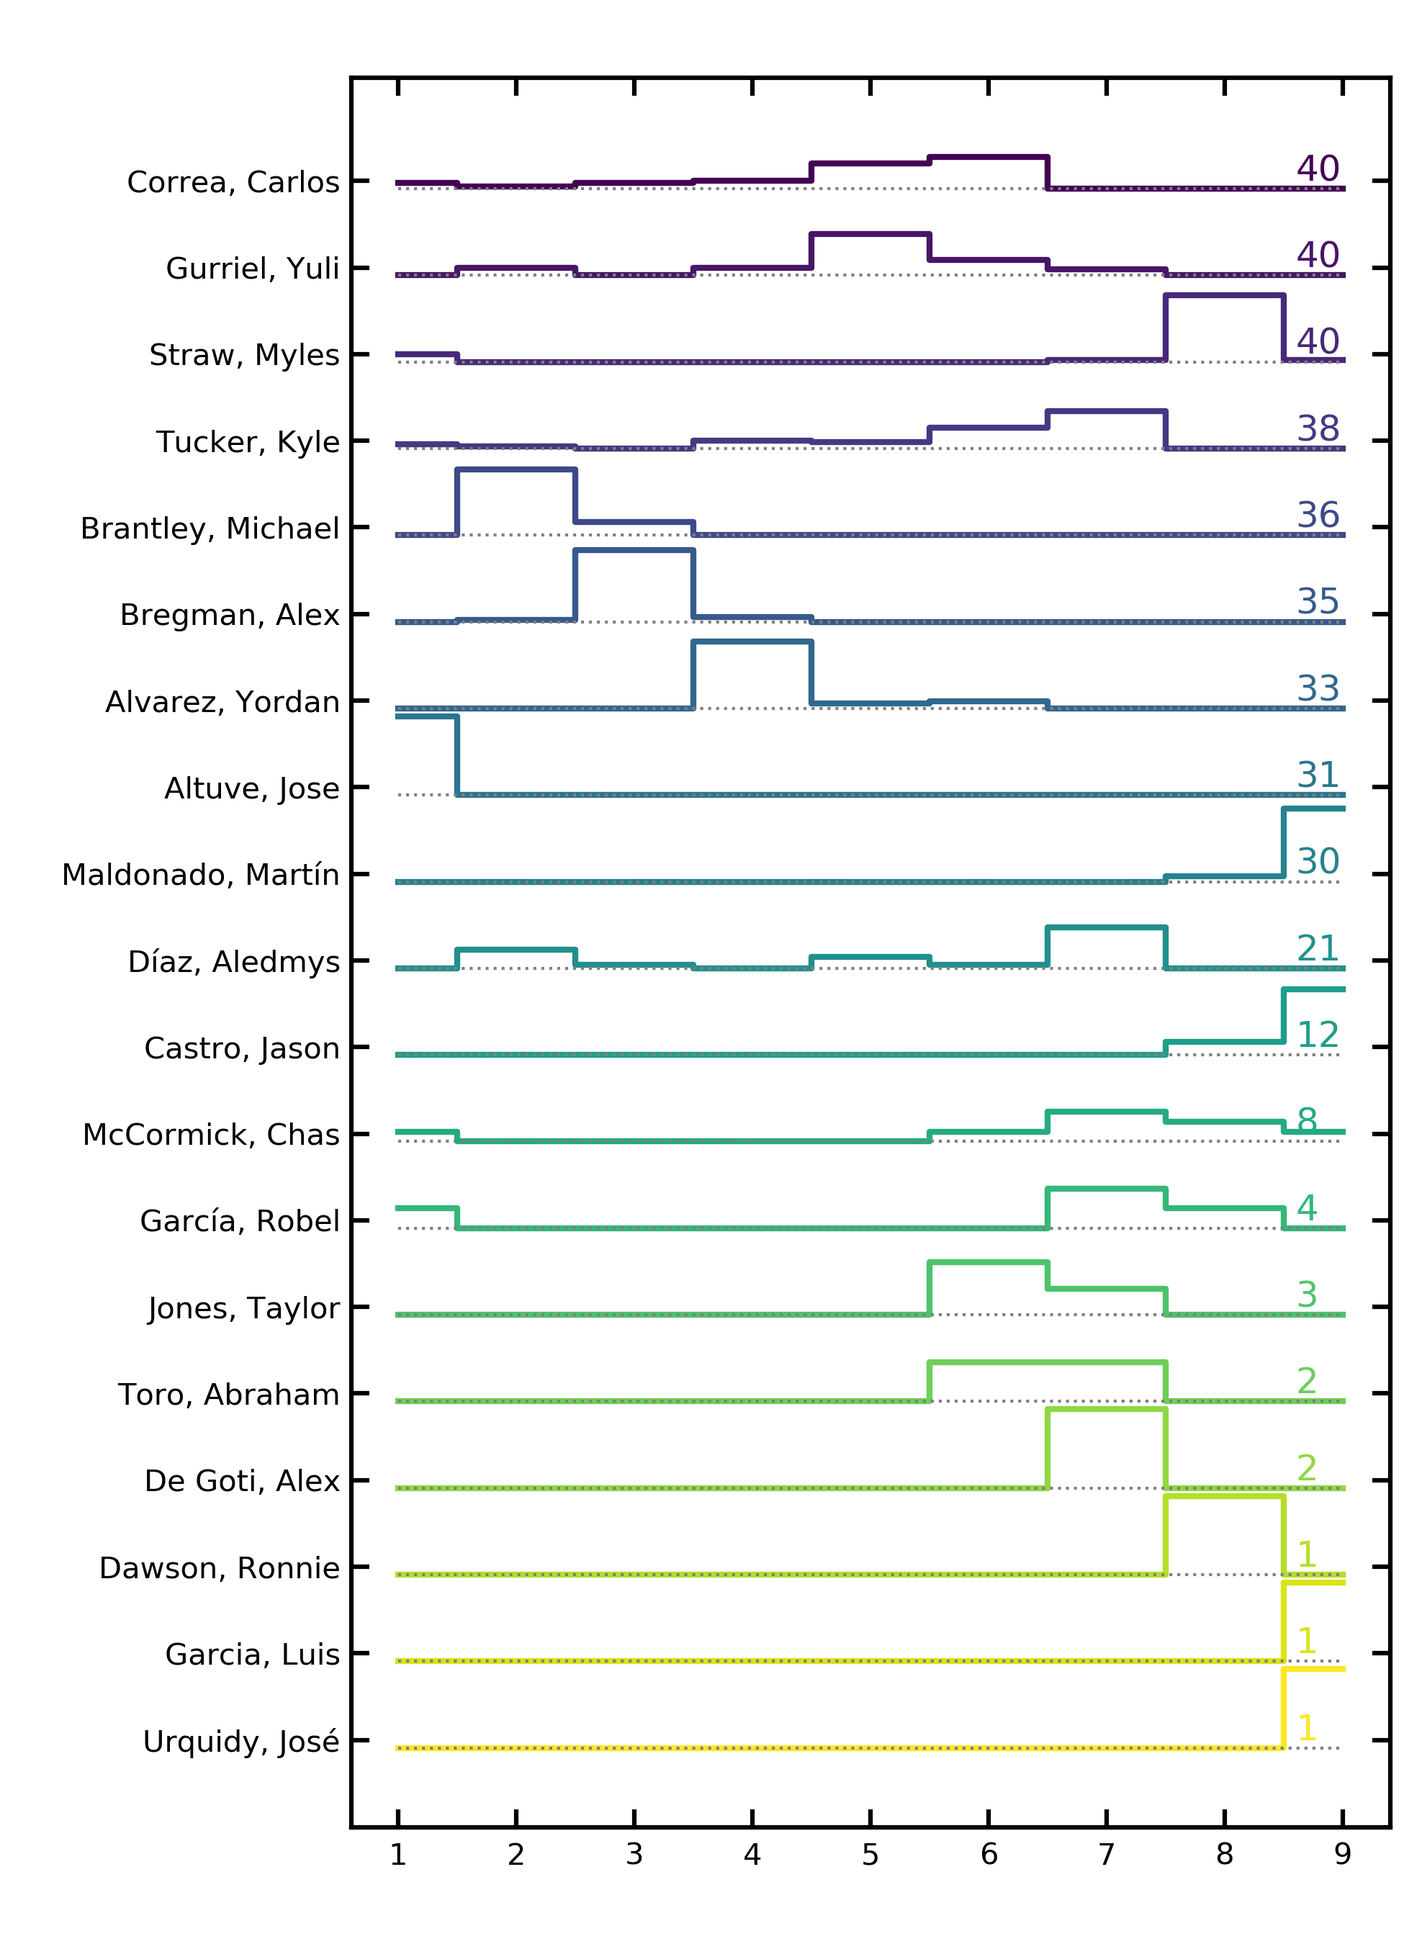
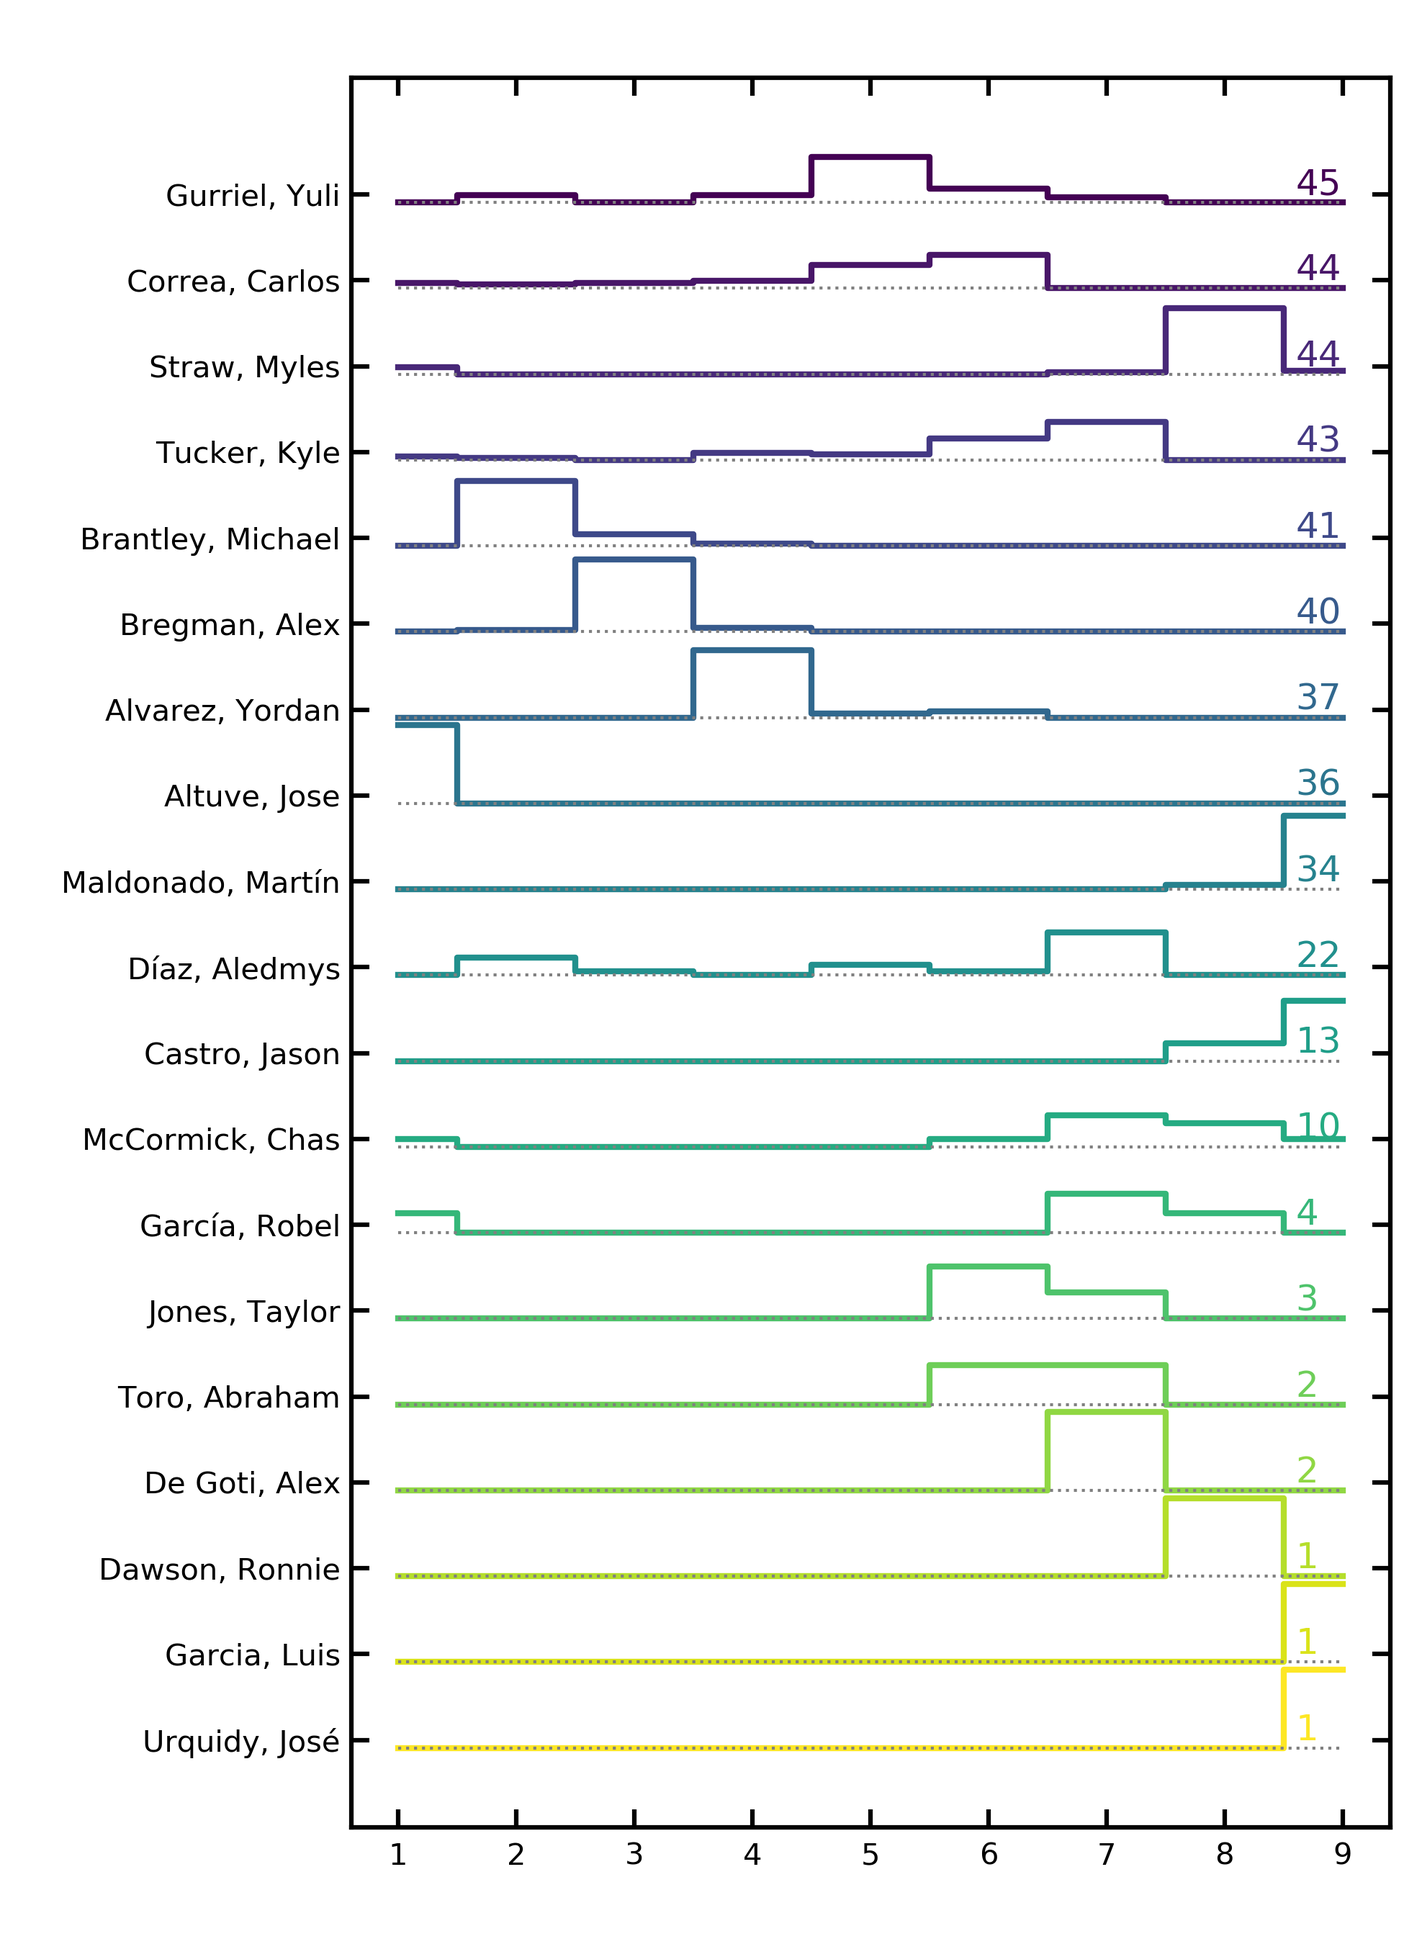
lineup update

diff --git a/Lineups/lineup2021.html b/Lineups/lineup2021.html
@@ -12,36 +12,36 @@
   <p>For each team, what is the "typical" 2021 lineup?</p>
 <table id="customers">
 <tr><th>Team</th><th>1st</th><th>2nd</th><th>3rd</th><th>4th</th><th>5th</th><th>6th</th><th>7th</th><th>8th</th><th>9th</th><th>Similarity</th><th>First Appeared</th></tr>
-<tr><td><a href="figures/2021LAAorder.png">LAA</a></td><td>Fletcher, David</td><td>Ohtani, Shohei</td><td>Trout, Mike</td><td>Rendon, Anthony</td><td>Walsh, Jared</td><td>Upton, Justin</td><td>Iglesias, José</td><td>Suzuki, Kurt</td><td>Fowler, Dexter</td><td>3.49</td><td>3</td></tr>
-<tr><td><a href="figures/2021HOUorder.png">HOU</a></td><td>Altuve, Jose</td><td>Brantley, Michael</td><td>Bregman, Alex</td><td>Alvarez, Yordan</td><td>Gurriel, Yuli</td><td>Correa, Carlos</td><td>Tucker, Kyle</td><td>Straw, Myles</td><td>Maldonado, Martín</td><td>4.48</td><td>8</td></tr>
-<tr><td><a href="figures/2021OAKorder.png">OAK</a></td><td>Canha, Mark</td><td>Laureano, Ramón</td><td>Olson, Matt</td><td>Murphy, Sean</td><td>Chapman, Matt</td><td>Lowrie, Jed</td><td>Piscotty, Stephen</td><td>Andrus, Elvis</td><td>Kemp, Tony</td><td>2.95</td><td>34</td></tr>
-<tr><td><a href="figures/2021TORorder.png">TOR</a></td><td>Semien, Marcus</td><td>Bichette, Bo</td><td>Guerrero Jr., Vladimir</td><td>Hernández, Teoscar</td><td>Grichuk, Randal</td><td>Biggio, Cavan</td><td>Gurriel Jr., Lourdes</td><td>Tellez, Rowdy</td><td>Jansen, Danny</td><td>3.34</td><td>33</td></tr>
-<tr><td><a href="figures/2021ATLorder.png">ATL</a></td><td>Acuña Jr., Ronald</td><td>Freeman, Freddie</td><td>Ozuna, Marcell</td><td>Albies, Ozzie</td><td>Riley, Austin</td><td>Swanson, Dansby</td><td>Contreras, William</td><td>Pache, Cristian</td><td>Ynoa, Huascar</td><td>3.63</td><td>29</td></tr>
-<tr><td><a href="figures/2021MILorder.png">MIL</a></td><td>Wong, Kolten</td><td>Vogelbach, Daniel</td><td>García, Avisaíl</td><td>Shaw, Travis</td><td>Bradley Jr., Jackie</td><td>Urías, Luis</td><td>McKinney, Billy</td><td>Maile, Luke</td><td>Woodruff, Brandon</td><td>2.02</td><td>27</td></tr>
-<tr><td><a href="figures/2021STLorder.png">STL</a></td><td>Edman, Tommy</td><td>Carlson, Dylan</td><td>Goldschmidt, Paul</td><td>Arenado, Nolan</td><td>DeJong, Paul</td><td>O'Neill, Tyler</td><td>Bader, Harrison</td><td>Knizner, Andrew</td><td>Wainwright, Adam</td><td>3.2</td><td>29</td></tr>
-<tr><td><a href="figures/2021CHCorder.png">CHC</a></td><td>Happ, Ian</td><td>Contreras, Willson</td><td>Rizzo, Anthony</td><td>Bryant, Kris</td><td>Pederson, Joc</td><td>Báez, Javier</td><td>Heyward, Jason</td><td>Bote, David</td><td>Davies, Zach</td><td>2.11</td><td>8</td></tr>
-<tr><td><a href="figures/2021ARIorder.png">ARI</a></td><td>Smith, Pavin</td><td>Calhoun, Kole</td><td>Cabrera, Asdrúbal</td><td>Peralta, David</td><td>Kelly, Carson</td><td>Escobar, Eduardo</td><td>Ahmed, Nick</td><td>Heath, Nick</td><td>Kelly, Merrill</td><td>2.36</td><td>22</td></tr>
-<tr><td><a href="figures/2021LADorder.png">LAD</a></td><td>Betts, Mookie</td><td>Seager, Corey</td><td>Turner, Justin</td><td>Muncy, Max</td><td>Smith, Will</td><td>Taylor, Chris</td><td>Beaty, Matt</td><td>Lux, Gavin</td><td>Buehler, Walker</td><td>3.42</td><td>32</td></tr>
-<tr><td><a href="figures/2021SForder.png">SF</a></td><td>La Stella, Tommy</td><td>Yastrzemski, Mike</td><td>Dickerson, Alex</td><td>Belt, Brandon</td><td>Longoria, Evan</td><td>Crawford, Brandon</td><td>Posey, Buster</td><td>Dubón, Mauricio</td><td>Webb, Logan</td><td>1.68</td><td>8</td></tr>
-<tr><td><a href="figures/2021CLEorder.png">CLE</a></td><td>Luplow, Jordan</td><td>Hernandez, Cesar</td><td>Ramírez, José</td><td>Rosario, Eddie</td><td>Reyes, Franmil</td><td>Naylor, Josh</td><td>Bauers, Jake</td><td>Pérez, Roberto</td><td>Giménez, Andrés</td><td>3.61</td><td>17</td></tr>
-<tr><td><a href="figures/2021SEAorder.png">SEA</a></td><td>Haniger, Mitch</td><td>France, Ty</td><td>Seager, Kyle</td><td>Lewis, Kyle</td><td>Marmolejos, José</td><td>Moore, Dylan</td><td>Trammell, Taylor</td><td>Murphy, Tom</td><td>Crawford, J.P.</td><td>3.28</td><td>27</td></tr>
-<tr><td><a href="figures/2021MIAorder.png">MIA</a></td><td>Dickerson, Corey</td><td>Marte, Starling</td><td>Aguilar, Jesús</td><td>Cooper, Garrett</td><td>Anderson, Brian</td><td>Chisholm Jr., Jazz</td><td>Berti, Jon</td><td>Wallach, Chad</td><td>López, Pablo</td><td>2.22</td><td>6</td></tr>
-<tr><td><a href="figures/2021NYMorder.png">NYM</a></td><td>McNeil, Jeff</td><td>Lindor, Francisco</td><td>Conforto, Michael</td><td>Alonso, Pete</td><td>Smith, Dominic</td><td>Pillar, Kevin</td><td>Villar, Jonathan</td><td>McCann, James</td><td>Walker, Taijuan</td><td>2.96</td><td>28</td></tr>
-<tr><td><a href="figures/2021WSHorder.png">WSH</a></td><td>Turner, Trea</td><td>Harrison, Josh</td><td>Soto, Juan</td><td>Bell, Josh</td><td>Castro, Starlin</td><td>Schwarber, Kyle</td><td>Gomes, Yan</td><td>Hernandez, Yadiel</td><td>Robles, Victor</td><td>1.95</td><td>29</td></tr>
-<tr><td><a href="figures/2021BALorder.png">BAL</a></td><td>Mullins, Cedric</td><td>Hays, Austin</td><td>Mancini, Trey</td><td>Franco, Maikel</td><td>Severino, Pedro</td><td>Mountcastle, Ryan</td><td>Galvis, Freddy</td><td>Stewart, DJ</td><td>Urías, Ramón</td><td>2.46</td><td>27</td></tr>
-<tr><td><a href="figures/2021SDorder.png">SD</a></td><td>Grisham, Trent</td><td>Profar, Jurickson</td><td>Machado, Manny</td><td>Hosmer, Eric</td><td>Myers, Wil</td><td>Cronenworth, Jake</td><td>Pham, Tommy</td><td>Caratini, Victor</td><td>Kim, Ha-Seong</td><td>2.5</td><td>10</td></tr>
-<tr><td><a href="figures/2021PHIorder.png">PHI</a></td><td>McCutchen, Andrew</td><td>Hoskins, Rhys</td><td>Harper, Bryce</td><td>Realmuto, J.T.</td><td>Bohm, Alec</td><td>Gregorius, Didi</td><td>Segura, Jean</td><td>Quinn, Roman</td><td>Wheeler, Zack</td><td>3.07</td><td>2</td></tr>
-<tr><td><a href="figures/2021PITorder.png">PIT</a></td><td>Frazier, Adam</td><td>Evans, Phillip</td><td>Reynolds, Bryan</td><td>Moran, Colin</td><td>González, Erik</td><td>Polanco, Gregory</td><td>Stallings, Jacob</td><td>Fowler, Dustin</td><td>Brubaker, JT</td><td>3.1</td><td>4</td></tr>
-<tr><td><a href="figures/2021TEXorder.png">TEX</a></td><td>Kiner-Falefa, Isiah</td><td>Solak, Nick</td><td>Gallo, Joey</td><td>García, Adolis</td><td>Lowe, Nate</td><td>Trevino, Jose</td><td>Calhoun, Willie</td><td>Culberson, Charlie</td><td>White, Eli</td><td>2.27</td><td>21</td></tr>
-<tr><td><a href="figures/2021TBorder.png">TB</a></td><td>Arozarena, Randy</td><td>Meadows, Austin</td><td>Margot, Manuel</td><td>Lowe, Brandon</td><td>Díaz, Yandy</td><td>Wendle, Joey</td><td>Zunino, Mike</td><td>Adames, Willy</td><td>Phillips, Brett</td><td>1.66</td><td>39</td></tr>
-<tr><td><a href="figures/2021BOSorder.png">BOS</a></td><td>Hernández, Enrique</td><td>Verdugo, Alex</td><td>Martinez, J.D.</td><td>Bogaerts, Xander</td><td>Devers, Rafael</td><td>Vázquez, Christian</td><td>Gonzalez, Marwin</td><td>Renfroe, Hunter</td><td>Dalbec, Bobby</td><td>4.6</td><td>26</td></tr>
-<tr><td><a href="figures/2021CINorder.png">CIN</a></td><td>Winker, Jesse</td><td>Castellanos, Nick</td><td>Votto, Joey</td><td>Suárez, Eugenio</td><td>Moustakas, Mike</td><td>Senzel, Nick</td><td>India, Jonathan</td><td>Barnhart, Tucker</td><td>Castillo, Luis</td><td>2.71</td><td>1</td></tr>
-<tr><td><a href="figures/2021COLorder.png">COL</a></td><td>Tapia, Raimel</td><td>McMahon, Ryan</td><td>Story, Trevor</td><td>Blackmon, Charlie</td><td>Cron, C.J.</td><td>Daza, Yonathan</td><td>Fuentes, Josh</td><td>Nuñez, Dom</td><td>Gray, Jon</td><td>2.56</td><td>17</td></tr>
-<tr><td><a href="figures/2021KCorder.png">KC</a></td><td>Merrifield, Whit</td><td>Benintendi, Andrew</td><td>Santana, Carlos</td><td>Perez, Salvador</td><td>Soler, Jorge</td><td>Dozier, Hunter</td><td>Isbel, Kyle</td><td>Taylor, Michael A.</td><td>Lopez, Nicky</td><td>4.15</td><td>1</td></tr>
-<tr><td><a href="figures/2021DETorder.png">DET</a></td><td>Grossman, Robbie</td><td>Castro, Willi</td><td>Candelario, Jeimer</td><td>Ramos, Wilson</td><td>Schoop, Jonathan</td><td>Goodrum, Niko</td><td>Baddoo, Akil</td><td>Reyes, Victor</td><td>Jones, JaCoby</td><td>2.23</td><td>19</td></tr>
-<tr><td><a href="figures/2021MINorder.png">MIN</a></td><td>Arraez, Luis</td><td>Donaldson, Josh</td><td>Cruz, Nelson</td><td>Kepler, Max</td><td>Polanco, Jorge</td><td>Larnach, Trevor</td><td>Astudillo, Willians</td><td>Simmons, Andrelton</td><td>Rortvedt, Ben</td><td>2.12</td><td>34</td></tr>
-<tr><td><a href="figures/2021CWSorder.png">CWS</a></td><td>Anderson, Tim</td><td>Eaton, Adam</td><td>Moncada, Yoán</td><td>Abreu, José</td><td>Mercedes, Yermín</td><td>Grandal, Yasmani</td><td>Vaughn, Andrew</td><td>García, Leury</td><td>Madrigal, Nick</td><td>3.1</td><td>34</td></tr>
-<tr><td><a href="figures/2021NYYorder.png">NYY</a></td><td>LeMahieu, DJ</td><td>Stanton, Giancarlo</td><td>Judge, Aaron</td><td>Urshela, Gio</td><td>Torres, Gleyber</td><td>Hicks, Aaron</td><td>Frazier, Clint</td><td>Higashioka, Kyle</td><td>Odor, Rougned</td><td>2.65</td><td>23</td></tr>
+<tr><td><a href="figures/2021LAAorder.png">LAA</a></td><td>Fletcher, David</td><td>Ohtani, Shohei</td><td>Trout, Mike</td><td>Rendon, Anthony</td><td>Walsh, Jared</td><td>Upton, Justin</td><td>Iglesias, José</td><td>Suzuki, Kurt</td><td>Fowler, Dexter</td><td>3.21</td><td>3</td></tr>
+<tr><td><a href="figures/2021HOUorder.png">HOU</a></td><td>Altuve, Jose</td><td>Brantley, Michael</td><td>Bregman, Alex</td><td>Alvarez, Yordan</td><td>Gurriel, Yuli</td><td>Correa, Carlos</td><td>Tucker, Kyle</td><td>Straw, Myles</td><td>Maldonado, Martín</td><td>4.55</td><td>8</td></tr>
+<tr><td><a href="figures/2021OAKorder.png">OAK</a></td><td>Canha, Mark</td><td>Laureano, Ramón</td><td>Murphy, Sean</td><td>Olson, Matt</td><td>Chapman, Matt</td><td>Lowrie, Jed</td><td>Piscotty, Stephen</td><td>Andrus, Elvis</td><td>Kemp, Tony</td><td>3.02</td><td>30</td></tr>
+<tr><td><a href="figures/2021TORorder.png">TOR</a></td><td>Semien, Marcus</td><td>Bichette, Bo</td><td>Guerrero Jr., Vladimir</td><td>Hernández, Teoscar</td><td>Grichuk, Randal</td><td>Biggio, Cavan</td><td>Gurriel Jr., Lourdes</td><td>Davis, Jonathan</td><td>Jansen, Danny</td><td>3.45</td><td>31</td></tr>
+<tr><td><a href="figures/2021ATLorder.png">ATL</a></td><td>Acuña Jr., Ronald</td><td>Freeman, Freddie</td><td>Ozuna, Marcell</td><td>Albies, Ozzie</td><td>Riley, Austin</td><td>Swanson, Dansby</td><td>Contreras, William</td><td>Pache, Cristian</td><td>Ynoa, Huascar</td><td>3.75</td><td>29</td></tr>
+<tr><td><a href="figures/2021MILorder.png">MIL</a></td><td>Wong, Kolten</td><td>Vogelbach, Daniel</td><td>Yelich, Christian</td><td>Shaw, Travis</td><td>Bradley Jr., Jackie</td><td>García, Avisaíl</td><td>Narváez, Omar</td><td>Urías, Luis</td><td>Peralta, Freddy</td><td>1.94</td><td>5</td></tr>
+<tr><td><a href="figures/2021STLorder.png">STL</a></td><td>Edman, Tommy</td><td>Carlson, Dylan</td><td>Goldschmidt, Paul</td><td>Arenado, Nolan</td><td>DeJong, Paul</td><td>O'Neill, Tyler</td><td>Bader, Harrison</td><td>Knizner, Andrew</td><td>Wainwright, Adam</td><td>3.19</td><td>29</td></tr>
+<tr><td><a href="figures/2021CHCorder.png">CHC</a></td><td>Happ, Ian</td><td>Contreras, Willson</td><td>Rizzo, Anthony</td><td>Bryant, Kris</td><td>Pederson, Joc</td><td>Báez, Javier</td><td>Heyward, Jason</td><td>Bote, David</td><td>Davies, Zach</td><td>1.96</td><td>8</td></tr>
+<tr><td><a href="figures/2021ARIorder.png">ARI</a></td><td>Smith, Pavin</td><td>VanMeter, Josh</td><td>Cabrera, Asdrúbal</td><td>Peralta, David</td><td>Kelly, Carson</td><td>Escobar, Eduardo</td><td>Ahmed, Nick</td><td>Rojas, Josh</td><td>Bumgarner, Madison</td><td>2.23</td><td>25</td></tr>
+<tr><td><a href="figures/2021LADorder.png">LAD</a></td><td>Betts, Mookie</td><td>Seager, Corey</td><td>Turner, Justin</td><td>Muncy, Max</td><td>Smith, Will</td><td>Taylor, Chris</td><td>Beaty, Matt</td><td>Lux, Gavin</td><td>Buehler, Walker</td><td>3.18</td><td>32</td></tr>
+<tr><td><a href="figures/2021SForder.png">SF</a></td><td>La Stella, Tommy</td><td>Yastrzemski, Mike</td><td>Dickerson, Alex</td><td>Belt, Brandon</td><td>Longoria, Evan</td><td>Crawford, Brandon</td><td>Posey, Buster</td><td>Dubón, Mauricio</td><td>Webb, Logan</td><td>1.47</td><td>8</td></tr>
+<tr><td><a href="figures/2021CLEorder.png">CLE</a></td><td>Hernandez, Cesar</td><td>Luplow, Jordan</td><td>Ramírez, José</td><td>Rosario, Eddie</td><td>Reyes, Franmil</td><td>Naylor, Josh</td><td>Bauers, Jake</td><td>Pérez, Roberto</td><td>Giménez, Andrés</td><td>3.33</td><td>22</td></tr>
+<tr><td><a href="figures/2021SEAorder.png">SEA</a></td><td>Haniger, Mitch</td><td>France, Ty</td><td>Seager, Kyle</td><td>Lewis, Kyle</td><td>Marmolejos, José</td><td>Moore, Dylan</td><td>Trammell, Taylor</td><td>Murphy, Tom</td><td>Crawford, J.P.</td><td>2.98</td><td>27</td></tr>
+<tr><td><a href="figures/2021MIAorder.png">MIA</a></td><td>Dickerson, Corey</td><td>Marte, Starling</td><td>Aguilar, Jesús</td><td>Duvall, Adam</td><td>Anderson, Brian</td><td>Chisholm Jr., Jazz</td><td>Rojas, Miguel</td><td>Alfaro, Jorge</td><td>Alcantara, Sandy</td><td>2.26</td><td>14</td></tr>
+<tr><td><a href="figures/2021NYMorder.png">NYM</a></td><td>McNeil, Jeff</td><td>Lindor, Francisco</td><td>Conforto, Michael</td><td>Alonso, Pete</td><td>Smith, Dominic</td><td>Pillar, Kevin</td><td>Villar, Jonathan</td><td>McCann, James</td><td>Walker, Taijuan</td><td>2.75</td><td>28</td></tr>
+<tr><td><a href="figures/2021WSHorder.png">WSH</a></td><td>Turner, Trea</td><td>Harrison, Josh</td><td>Soto, Juan</td><td>Schwarber, Kyle</td><td>Castro, Starlin</td><td>Bell, Josh</td><td>Gomes, Yan</td><td>Corbin, Patrick</td><td>Robles, Victor</td><td>2.11</td><td>34</td></tr>
+<tr><td><a href="figures/2021BALorder.png">BAL</a></td><td>Mullins, Cedric</td><td>Hays, Austin</td><td>Mancini, Trey</td><td>Franco, Maikel</td><td>Severino, Pedro</td><td>Mountcastle, Ryan</td><td>Galvis, Freddy</td><td>Stewart, DJ</td><td>Urías, Ramón</td><td>2.42</td><td>27</td></tr>
+<tr><td><a href="figures/2021SDorder.png">SD</a></td><td>Grisham, Trent</td><td>Profar, Jurickson</td><td>Machado, Manny</td><td>Hosmer, Eric</td><td>Myers, Wil</td><td>Cronenworth, Jake</td><td>Pham, Tommy</td><td>Caratini, Victor</td><td>Kim, Ha-Seong</td><td>2.36</td><td>10</td></tr>
+<tr><td><a href="figures/2021PHIorder.png">PHI</a></td><td>McCutchen, Andrew</td><td>Hoskins, Rhys</td><td>Harper, Bryce</td><td>Realmuto, J.T.</td><td>Bohm, Alec</td><td>Gregorius, Didi</td><td>Segura, Jean</td><td>Quinn, Roman</td><td>Wheeler, Zack</td><td>3.02</td><td>2</td></tr>
+<tr><td><a href="figures/2021PITorder.png">PIT</a></td><td>Frazier, Adam</td><td>Evans, Phillip</td><td>Reynolds, Bryan</td><td>Moran, Colin</td><td>González, Erik</td><td>Polanco, Gregory</td><td>Stallings, Jacob</td><td>Fowler, Dustin</td><td>Brubaker, JT</td><td>2.85</td><td>4</td></tr>
+<tr><td><a href="figures/2021TEXorder.png">TEX</a></td><td>Calhoun, Willie</td><td>Solak, Nick</td><td>Lowe, Nate</td><td>Gallo, Joey</td><td>García, Adolis</td><td>Dahl, David</td><td>Kiner-Falefa, Isiah</td><td>Culberson, Charlie</td><td>Trevino, Jose</td><td>2.49</td><td>30</td></tr>
+<tr><td><a href="figures/2021TBorder.png">TB</a></td><td>Arozarena, Randy</td><td>Meadows, Austin</td><td>Margot, Manuel</td><td>Lowe, Brandon</td><td>Díaz, Yandy</td><td>Wendle, Joey</td><td>Zunino, Mike</td><td>Adames, Willy</td><td>Phillips, Brett</td><td>1.69</td><td>39</td></tr>
+<tr><td><a href="figures/2021BOSorder.png">BOS</a></td><td>Hernández, Enrique</td><td>Verdugo, Alex</td><td>Martinez, J.D.</td><td>Bogaerts, Xander</td><td>Devers, Rafael</td><td>Vázquez, Christian</td><td>Gonzalez, Marwin</td><td>Renfroe, Hunter</td><td>Dalbec, Bobby</td><td>4.5</td><td>26</td></tr>
+<tr><td><a href="figures/2021CINorder.png">CIN</a></td><td>Winker, Jesse</td><td>Castellanos, Nick</td><td>Votto, Joey</td><td>Suárez, Eugenio</td><td>Moustakas, Mike</td><td>Senzel, Nick</td><td>India, Jonathan</td><td>Barnhart, Tucker</td><td>Castillo, Luis</td><td>2.19</td><td>1</td></tr>
+<tr><td><a href="figures/2021COLorder.png">COL</a></td><td>Tapia, Raimel</td><td>McMahon, Ryan</td><td>Story, Trevor</td><td>Blackmon, Charlie</td><td>Cron, C.J.</td><td>Daza, Yonathan</td><td>Fuentes, Josh</td><td>Nuñez, Dom</td><td>Gray, Jon</td><td>2.44</td><td>17</td></tr>
+<tr><td><a href="figures/2021KCorder.png">KC</a></td><td>Merrifield, Whit</td><td>Benintendi, Andrew</td><td>Santana, Carlos</td><td>Perez, Salvador</td><td>Soler, Jorge</td><td>Dozier, Hunter</td><td>Isbel, Kyle</td><td>Taylor, Michael A.</td><td>Lopez, Nicky</td><td>4.04</td><td>1</td></tr>
+<tr><td><a href="figures/2021DETorder.png">DET</a></td><td>Grossman, Robbie</td><td>Castro, Willi</td><td>Candelario, Jeimer</td><td>Cabrera, Miguel</td><td>Mazara, Nomar</td><td>Goodrum, Niko</td><td>Reyes, Victor</td><td>Baddoo, Akil</td><td>Greiner, Grayson</td><td>2.28</td><td>8</td></tr>
+<tr><td><a href="figures/2021MINorder.png">MIN</a></td><td>Arraez, Luis</td><td>Donaldson, Josh</td><td>Cruz, Nelson</td><td>Kepler, Max</td><td>Polanco, Jorge</td><td>Larnach, Trevor</td><td>Astudillo, Willians</td><td>Simmons, Andrelton</td><td>Rortvedt, Ben</td><td>2.09</td><td>34</td></tr>
+<tr><td><a href="figures/2021CWSorder.png">CWS</a></td><td>Anderson, Tim</td><td>Eaton, Adam</td><td>Moncada, Yoán</td><td>Abreu, José</td><td>Mercedes, Yermín</td><td>Grandal, Yasmani</td><td>Vaughn, Andrew</td><td>García, Leury</td><td>Madrigal, Nick</td><td>3.26</td><td>34</td></tr>
+<tr><td><a href="figures/2021NYYorder.png">NYY</a></td><td>LeMahieu, DJ</td><td>Stanton, Giancarlo</td><td>Judge, Aaron</td><td>Urshela, Gio</td><td>Torres, Gleyber</td><td>Hicks, Aaron</td><td>Frazier, Clint</td><td>Higashioka, Kyle</td><td>Odor, Rougned</td><td>2.6</td><td>23</td></tr>
 </table>
 </body>
 </html>
